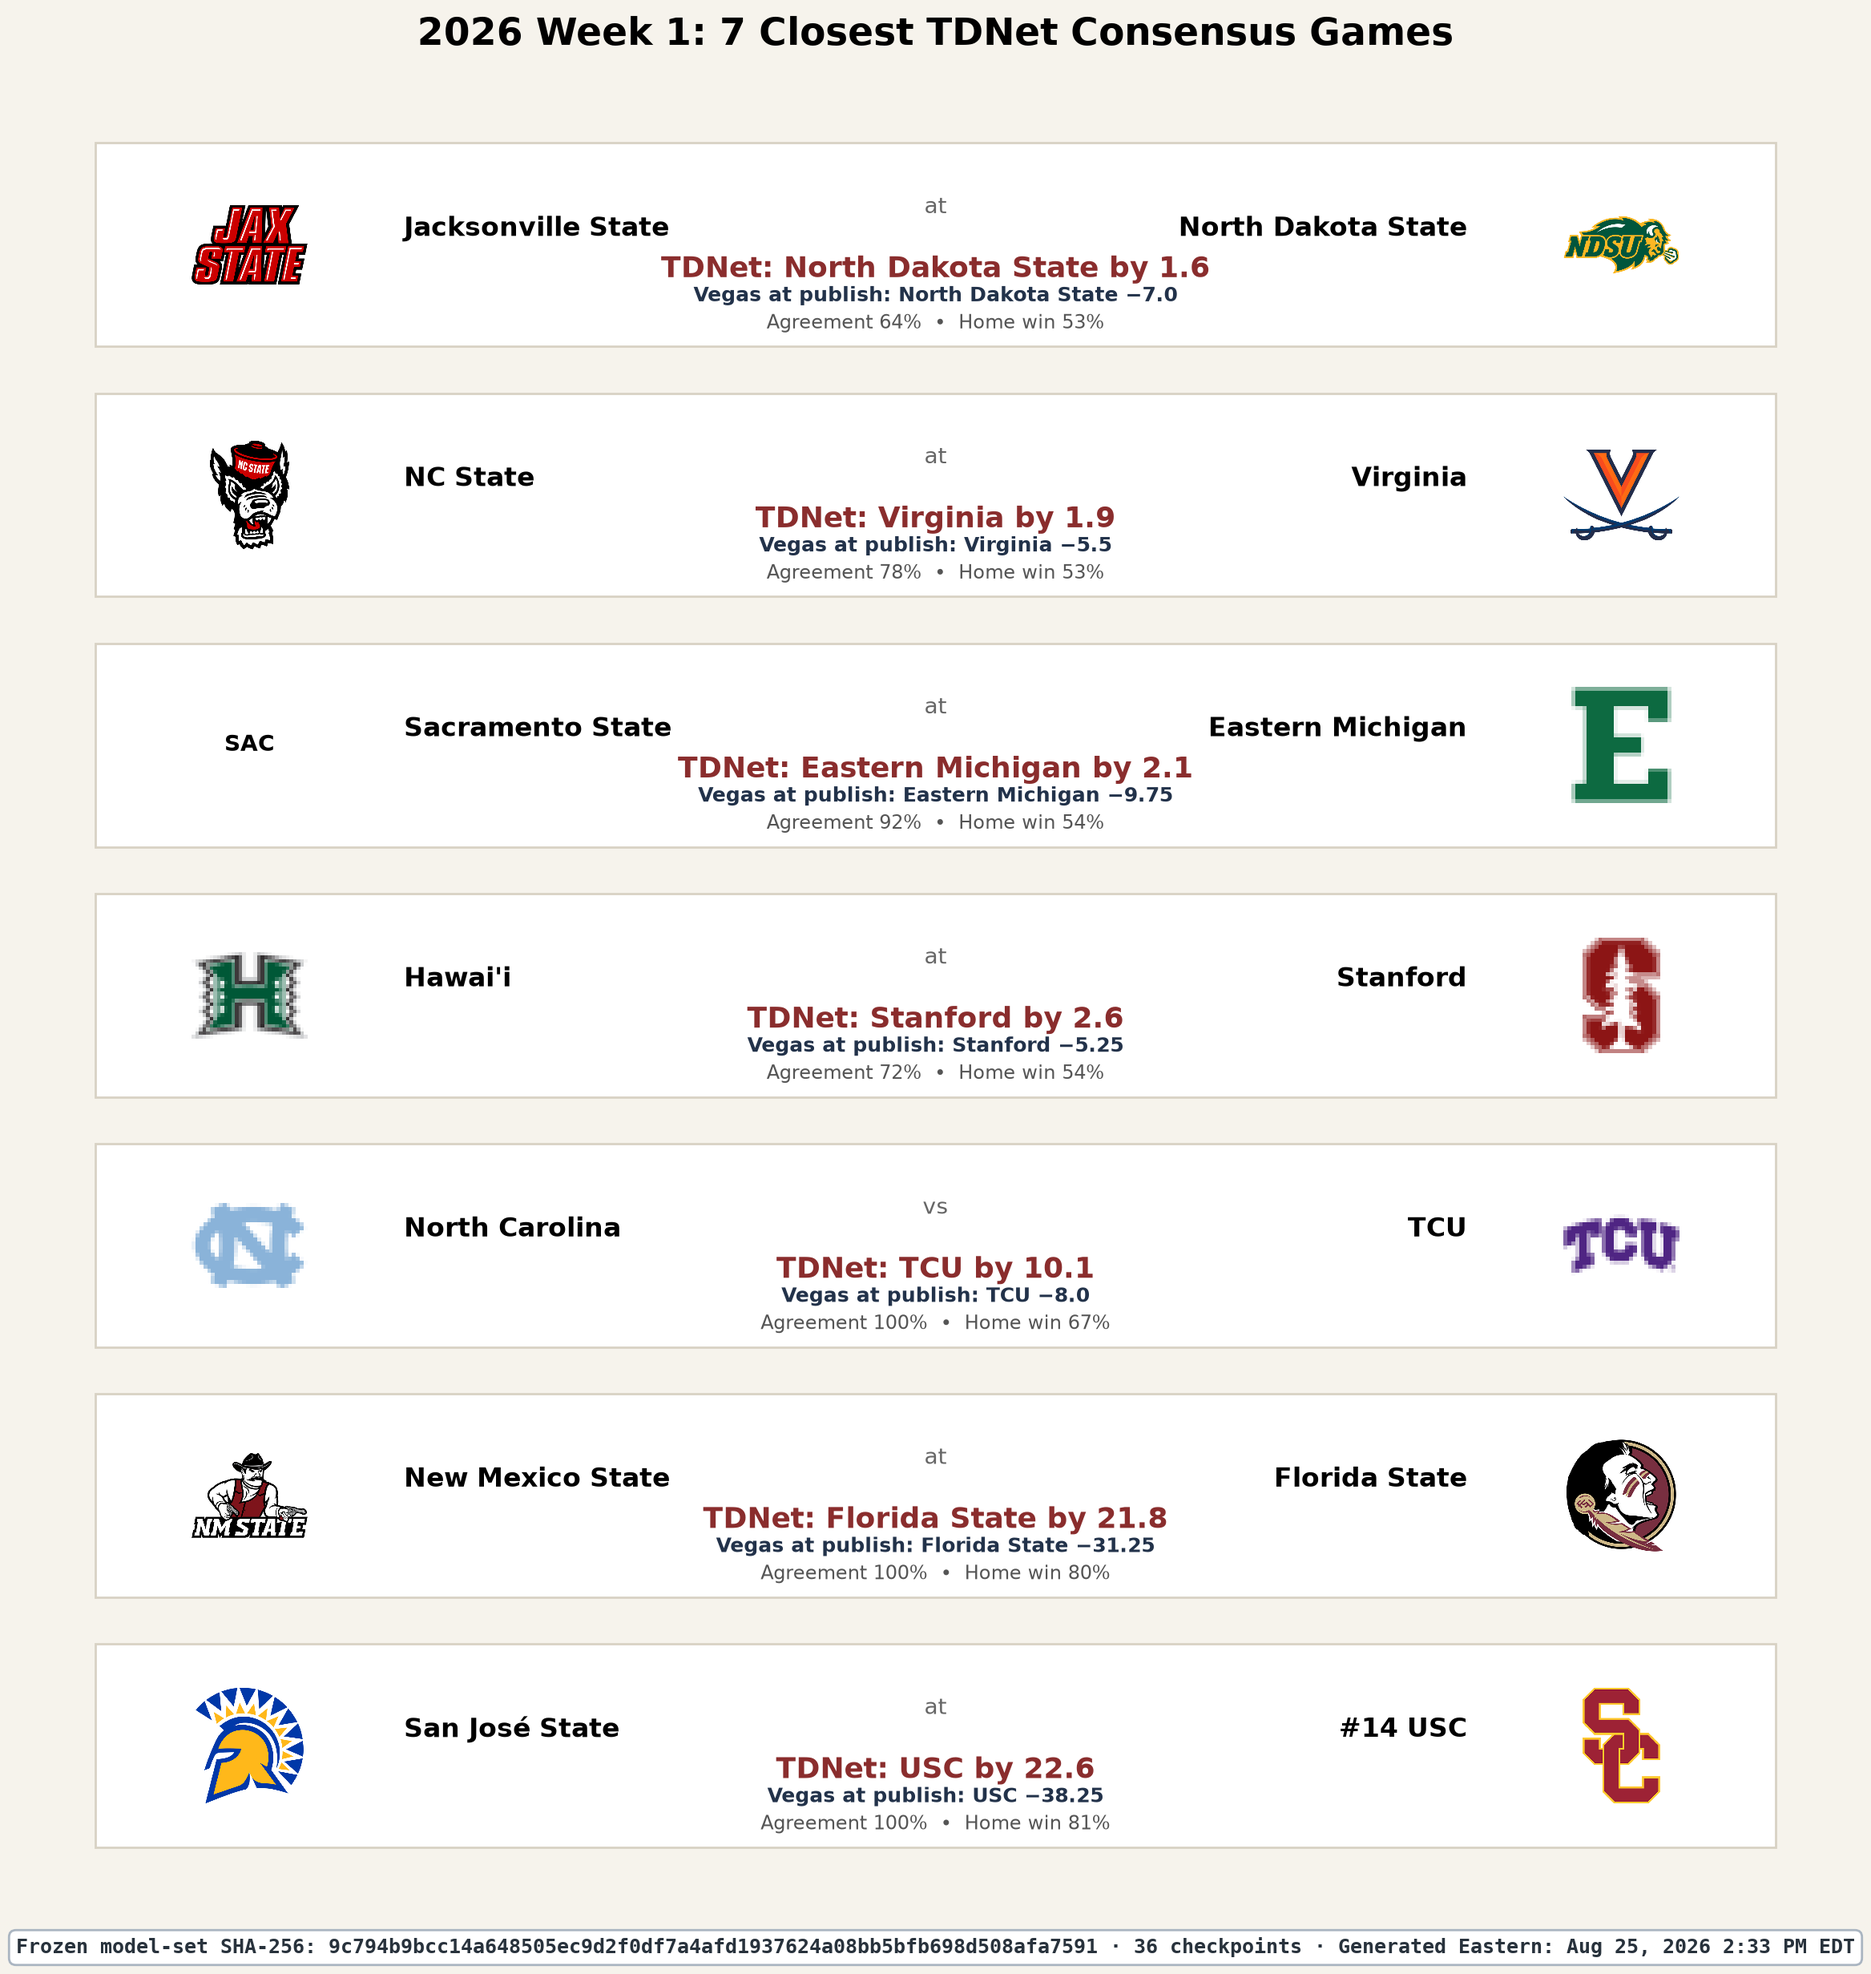
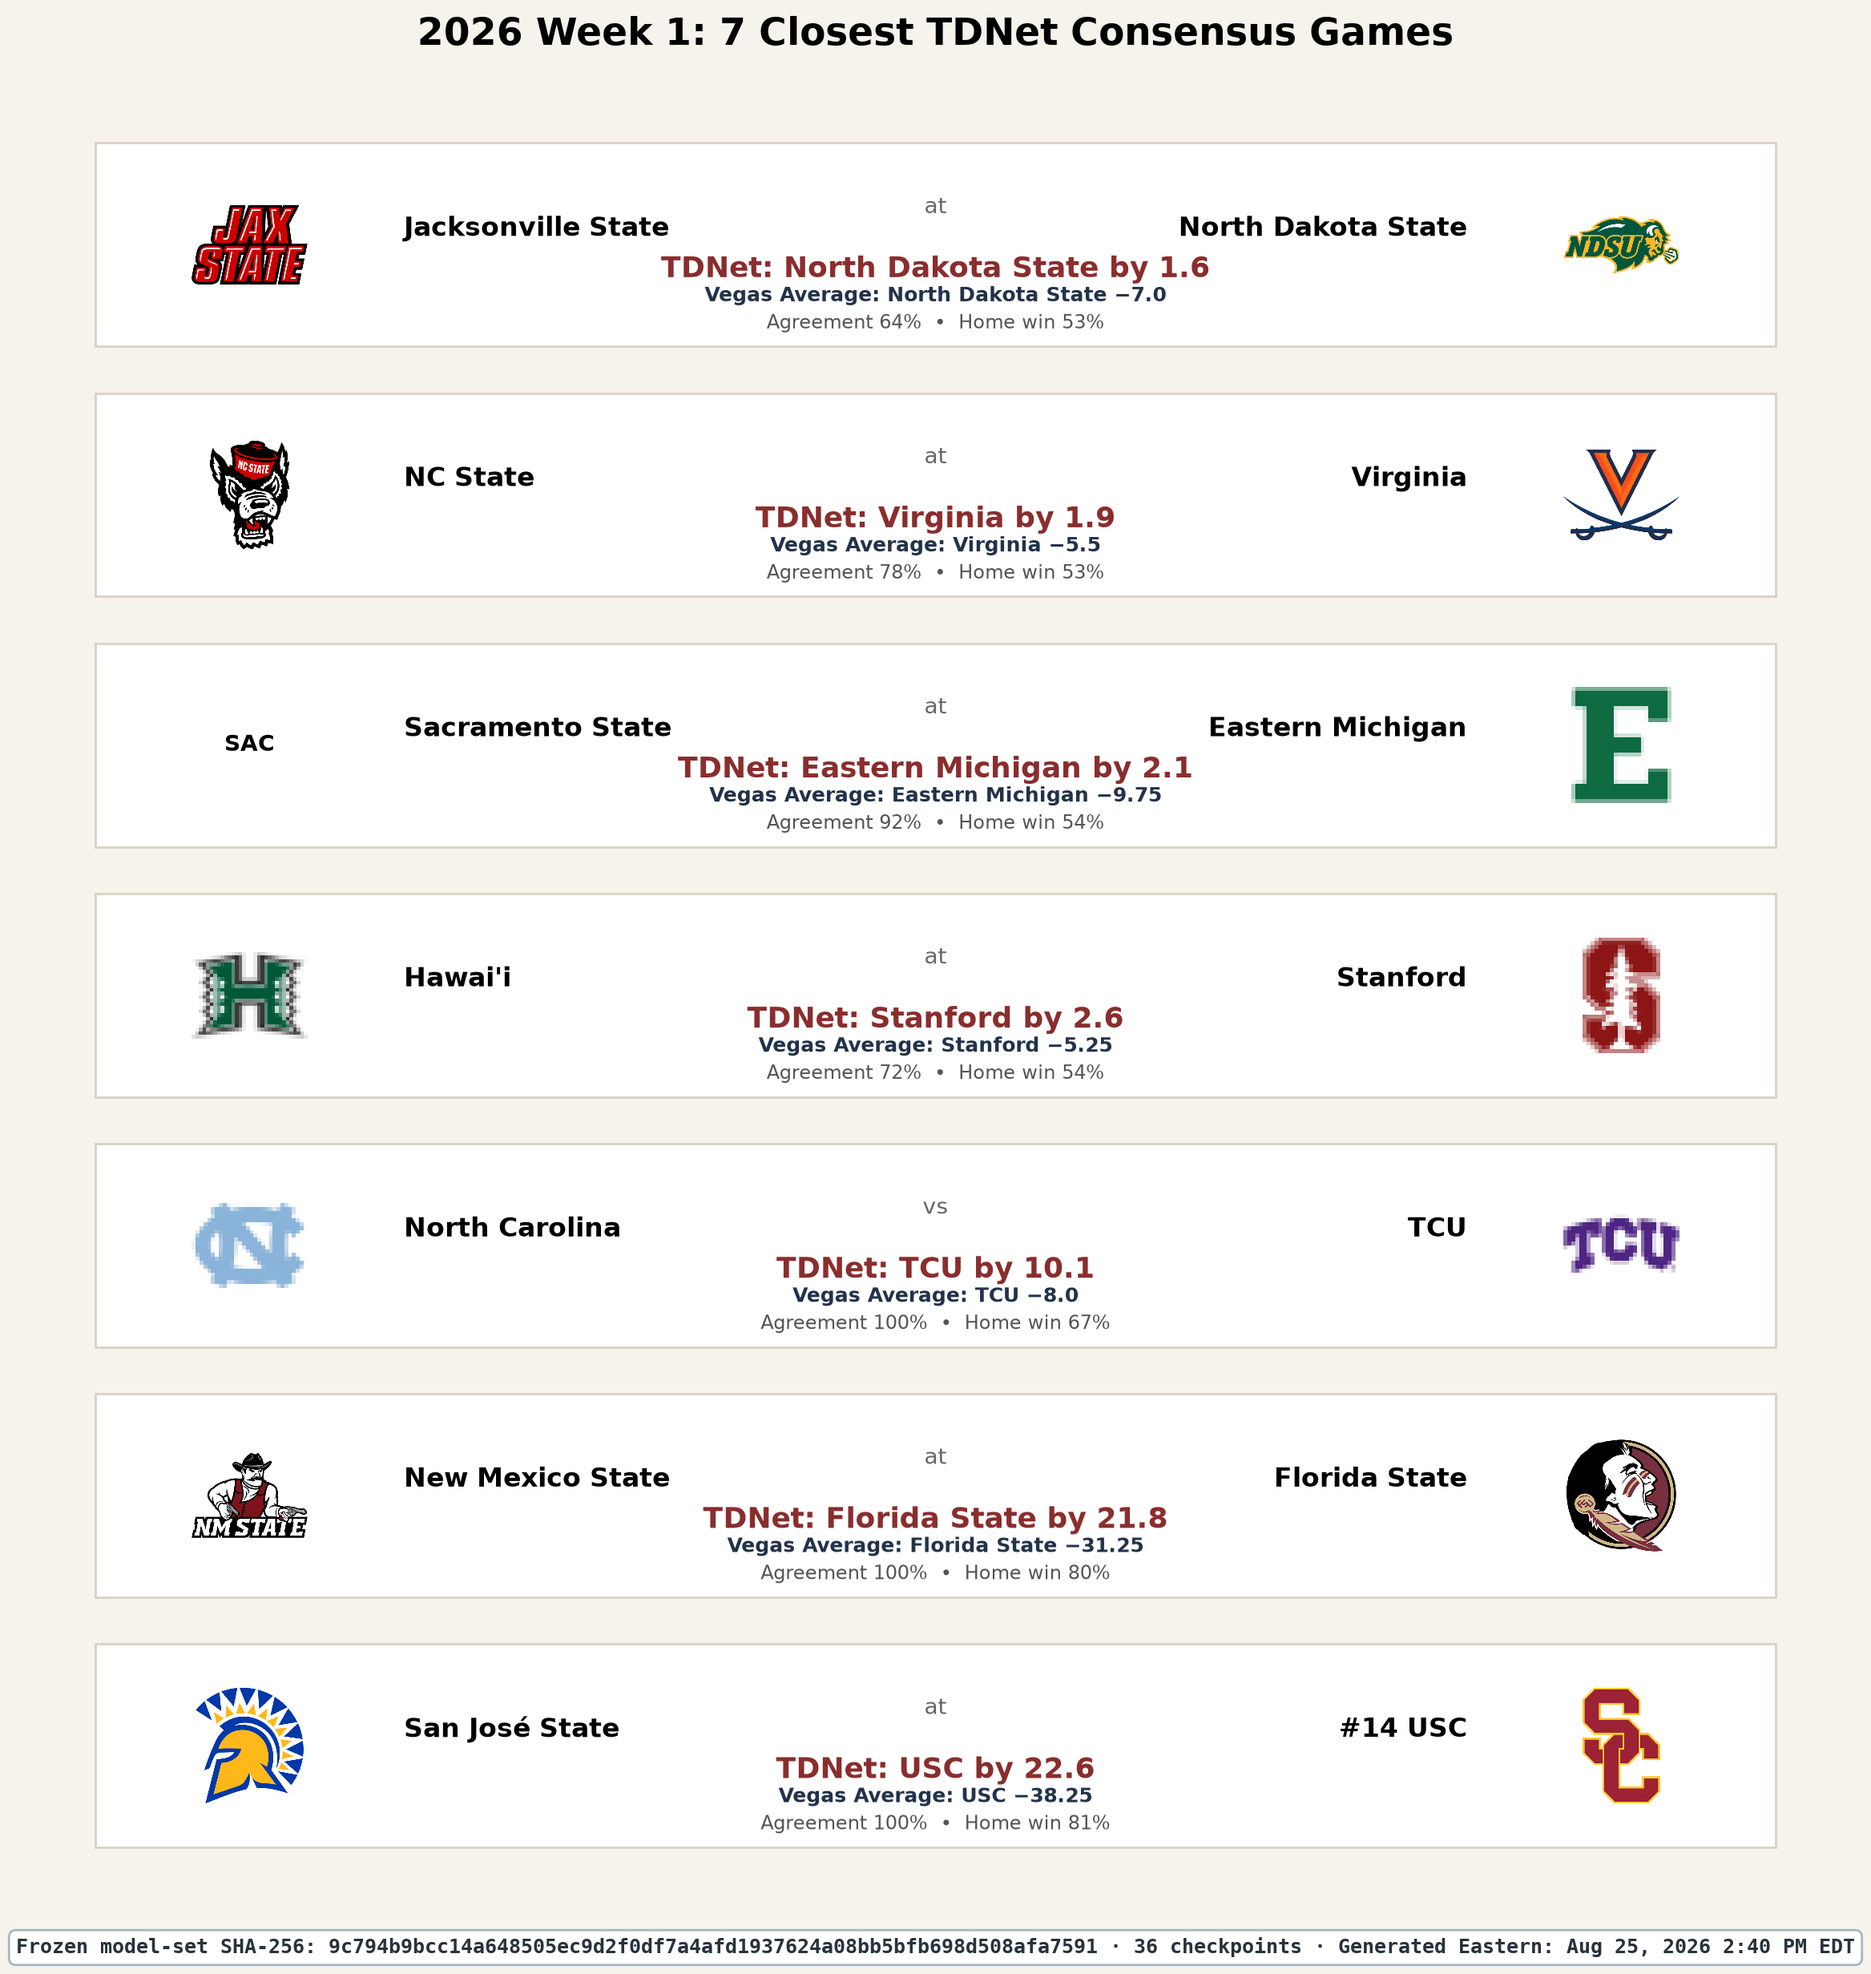
Label publication spreads as Vegas averages

diff --git a/src/gridiron_ml/publication/weekly.py b/src/gridiron_ml/publication/weekly.py
@@ -357,9 +357,9 @@ def build_weekly_blog_package(
         )
     (blog / "figure_captions.md").write_text(
         "# Figure captions\n\n"
-        f"1. **Top 25 matchups.** Consensus frozen-model predictions for {len(top25_games)} games involving a team in {top25_label or 'the supplied Top 25 snapshot'}, with the Vegas spread frozen at publication. Margins are signed from the home team's perspective.\n\n"
-        f"2. **All games.** Consensus predictions and publication-time Vegas spreads for {len(consensus)} scheduled games.\n\n"
-        f"3. **Closest games.** The ten scheduled games with the smallest absolute consensus predicted margins, with publication-time Vegas spreads.{social_captions}\n",
+        f"1. **Top 25 matchups.** Consensus frozen-model predictions for {len(top25_games)} games involving a team in {top25_label or 'the supplied Top 25 snapshot'}, with the average available Vegas spread frozen at publication. Margins are signed from the home team's perspective.\n\n"
+        f"2. **All games.** Consensus predictions and average available Vegas spreads for {len(consensus)} scheduled games.\n\n"
+        f"3. **Closest games.** The ten scheduled games with the smallest absolute consensus predicted margins, with average available Vegas spreads.{social_captions}\n",
         encoding="utf-8",
     )
     social_alt_text = (
@@ -373,9 +373,9 @@ def build_weekly_blog_package(
         )
     (blog / "alt_text.md").write_text(
         "# Alt text\n\n"
-        "Top 25 matchup cards show each away and home team logo, poll rank when available, the TDNet consensus predicted winner and margin, and the Vegas spread frozen at publication.\n\n"
-        "The all-games table lists kickoff, matchup, predicted winner, signed home margin, publication-time Vegas spread, home win probability, and model agreement.\n\n"
-        f"Closest-game cards show the ten lowest-margin projected games with team logos, predicted winner, margin, publication-time Vegas spread, home win probability, and model agreement.{social_alt_text}\n",
+        "Top 25 matchup cards show each away and home team logo, poll rank when available, the TDNet consensus predicted winner and margin, and the average available Vegas spread.\n\n"
+        "The all-games table lists kickoff, matchup, predicted winner, signed home margin, average available Vegas spread, home win probability, and model agreement.\n\n"
+        f"Closest-game cards show the ten lowest-margin projected games with team logos, predicted winner, margin, average available Vegas spread, home win probability, and model agreement.{social_alt_text}\n",
         encoding="utf-8",
     )
     manifest = {
@@ -405,7 +405,7 @@ def build_weekly_blog_package(
         "market_lines_path": str(resolved_market_lines.resolve()) if resolved_market_lines.exists() else None,
         "market_lines_sha256": sha256_file(resolved_market_lines) if resolved_market_lines.exists() else None,
         "market_lines_published_at_utc": created_at if resolved_market_lines.exists() else None,
-        "market_lines_semantics": "pregame provider-median spread frozen at publication",
+        "market_lines_semantics": "pregame provider-average spread frozen at publication",
         "ap_top25_path": str(Path(ap_path).resolve()) if ap_path else None,
         "ap_top25_label": top25_label or "AP Top 25",
         "ranking_source_is_ap": (top25_label or "AP Top 25").strip().casefold() == "ap top 25",
@@ -568,7 +568,7 @@ def plot_top25_matchups(games, path, *, logo_dir, title, dpi=200, model_set_sha2
         margin = float(game["predicted_margin"])
         axis.text(0.50, 0.39, f"TDNet: {winner} by {margin:.1f}", ha="center", va="center", fontsize=13, color="#8A2D2D", weight="bold")
         axis.text(
-            0.50, 0.25, f"Vegas at publish: {format_vegas_spread(game)}",
+            0.50, 0.25, f"Vegas Average: {format_vegas_spread(game)}",
             ha="center", fontsize=9, color="#22324A", weight="bold",
         )
         axis.text(0.50, 0.13, f"Agreement {float(game['model_agreement']):.0%}  •  Home win {float(game['pred_home_win_probability']):.0%}", ha="center", fontsize=8.5, color="#555")
@@ -599,7 +599,7 @@ def plot_all_games_table(games, path, *, title, dpi=180, model_set_sha256=None, 
                 ],
                 "TDNet pick": table["pred_winner"],
                 "Margin": table["predicted_margin"].map(lambda x: f"{x:.1f}"),
-                "Vegas at publish": [format_vegas_spread(game) for _, game in table.iterrows()],
+                "Vegas Average": [format_vegas_spread(game) for _, game in table.iterrows()],
                 "Home win": table["pred_home_win_probability"].map(lambda x: f"{x:.0%}"),
                 "Agreement": table["model_agreement"].map(lambda x: f"{x:.0%}"),
             }
@@ -860,7 +860,7 @@ def _normalize_schedule(schedule, *, season, week):
 
 
 def merge_cfbd_market_lines(schedule, raw_lines, *, season, week):
-    """Attach the median available CFBD provider spread to each scheduled game.
+    """Attach the average available CFBD provider spread to each scheduled game.
 
     CFBD spreads use the home-team convention: negative means the home team is
     favored. Empty provider lists stay missing, so a social graphic never
@@ -880,7 +880,7 @@ def merge_cfbd_market_lines(schedule, raw_lines, *, season, week):
     if "game_id" not in lines or "lines" not in lines:
         return out
 
-    def provider_median(value):
+    def provider_average(value):
         if isinstance(value, np.ndarray):
             value = value.tolist()
         if isinstance(value, dict):
@@ -892,12 +892,12 @@ def merge_cfbd_market_lines(schedule, raw_lines, *, season, week):
             for item in value if isinstance(item, dict)
         ]
         valid = pd.Series(spreads, dtype="float64").dropna()
-        return float(valid.median()) if not valid.empty else np.nan
+        return float(valid.mean()) if not valid.empty else np.nan
 
     market = lines.assign(
-        market_spread_close=lines["lines"].map(provider_median)
+        market_spread_close=lines["lines"].map(provider_average)
     ).dropna(subset=["market_spread_close"])
-    market = market.groupby("game_id", as_index=False)["market_spread_close"].median()
+    market = market.groupby("game_id", as_index=False)["market_spread_close"].mean()
     mapped = out["game_id"].map(market.set_index("game_id")["market_spread_close"])
     if "market_spread_close" in out:
         out["market_spread_close"] = pd.to_numeric(

diff --git a/tests/test_publication_weekly_figures.py b/tests/test_publication_weekly_figures.py
@@ -254,7 +254,7 @@ def test_weekly_consensus_preserves_market_spread_for_social_graphics():
     assert consensus.loc[0, "vegas_spread_as_of_publish"] == -3.5
 
 
-def test_cfbd_provider_median_lines_merge_without_fabricating_empty_games():
+def test_cfbd_provider_average_lines_merge_without_fabricating_empty_games():
     from gridiron_ml.publication.weekly import merge_cfbd_market_lines
 
     schedule = pd.DataFrame([
@@ -263,11 +263,15 @@ def test_cfbd_provider_median_lines_merge_without_fabricating_empty_games():
     ])
     lines = pd.DataFrame([
         {"id": 1, "season": 2026, "week": 1,
-         "lines": [{"provider": "A", "spread": -7}, {"provider": "B", "spread": -8}]},
+         "lines": [
+             {"provider": "A", "spread": -7},
+             {"provider": "B", "spread": -8},
+             {"provider": "C", "spread": -12},
+         ]},
         {"id": 2, "season": 2026, "week": 1, "lines": []},
     ])
     merged = merge_cfbd_market_lines(schedule, lines, season=2026, week=1)
-    assert merged.loc[merged["game_id"].eq(1), "market_spread_close"].item() == -7.5
+    assert merged.loc[merged["game_id"].eq(1), "market_spread_close"].item() == -9.0
     assert pd.isna(merged.loc[merged["game_id"].eq(2), "market_spread_close"].item())
 
 

diff --git a/src/gridiron_ml/cli/publication/render_predictions_social.py b/src/gridiron_ml/cli/publication/render_predictions_social.py
@@ -20,7 +20,7 @@ def main() -> None:
     parser.add_argument("--poll", type=Path, help="Optional TDNet Top 25 CSV or parquet.")
     parser.add_argument(
         "--market-lines", type=Path,
-        help="Optional raw CFBD /lines CSV or parquet, merged by game id using the provider median.",
+        help="Optional raw CFBD /lines CSV or parquet, merged by game id using the provider average.",
     )
     parser.add_argument("--season", type=int, required=True)
     parser.add_argument("--week", type=int, required=True)

diff --git a/publication/2026/week_00/pre_game/blog/alt_text.md b/publication/2026/week_00/pre_game/blog/alt_text.md
@@ -1,7 +1,7 @@
 # Alt text
 
-Top 25 matchup cards show each away and home team logo, poll rank when available, the TDNet consensus predicted winner and margin, and the Vegas spread frozen at publication.
+Top 25 matchup cards show each away and home team logo, poll rank when available, the TDNet consensus predicted winner and margin, and the average available Vegas spread.
 
-The all-games table lists kickoff, matchup, predicted winner, signed home margin, publication-time Vegas spread, home win probability, and model agreement.
+The all-games table lists kickoff, matchup, predicted winner, signed home margin, average available Vegas spread, home win probability, and model agreement.
 
-Closest-game cards show the lowest-margin projected games with team logos, predicted winner, margin, publication-time Vegas spread, home win probability, and model agreement.
+Closest-game cards show the lowest-margin projected games with team logos, predicted winner, margin, average available Vegas spread, home win probability, and model agreement.

diff --git a/publication/2026/week_00/pre_game/blog/figure_captions.md b/publication/2026/week_00/pre_game/blog/figure_captions.md
@@ -1,7 +1,7 @@
 # Figure captions
 
-1. **Top 25 matchups.** Consensus frozen-model predictions for one game involving a team in the AP Top 25, with the Vegas spread frozen at publication. Margins are signed from the home team's perspective.
+1. **Top 25 matchups.** Consensus frozen-model predictions for one game involving a team in the AP Top 25, with the average available Vegas spread frozen at publication. Margins are signed from the home team's perspective.
 
-2. **All games.** Consensus predictions and publication-time Vegas spreads for 7 scheduled games.
+2. **All games.** Consensus predictions and average available Vegas spreads for 7 scheduled games.
 
-3. **Closest games.** The scheduled games with the smallest absolute consensus predicted margins, with publication-time Vegas spreads.
+3. **Closest games.** The scheduled games with the smallest absolute consensus predicted margins, with average available Vegas spreads.
